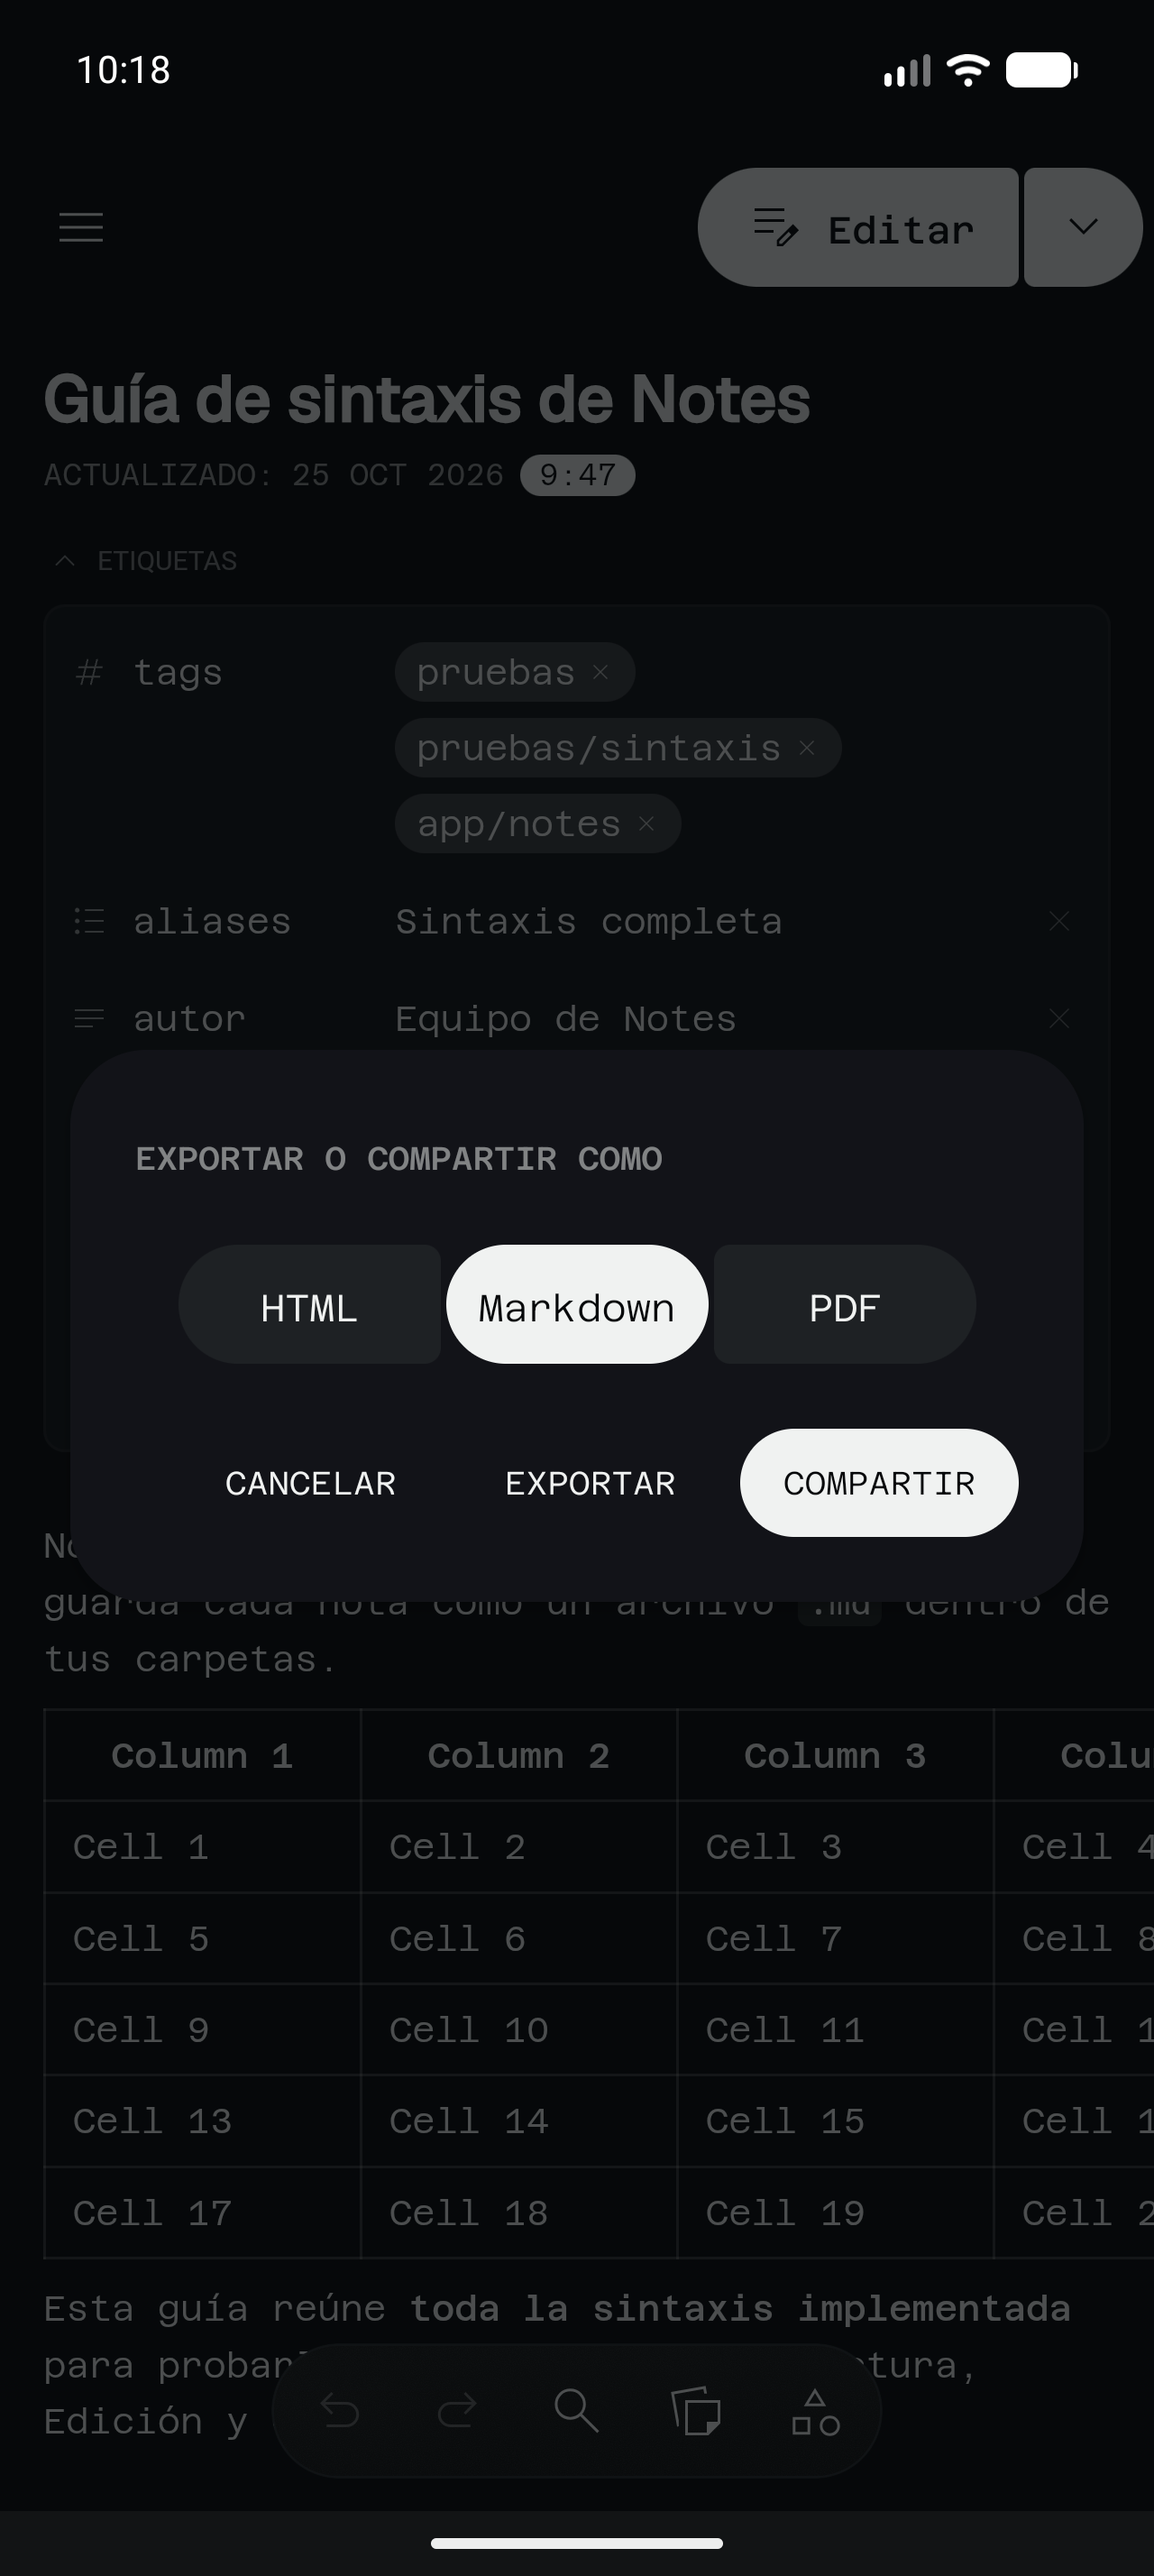
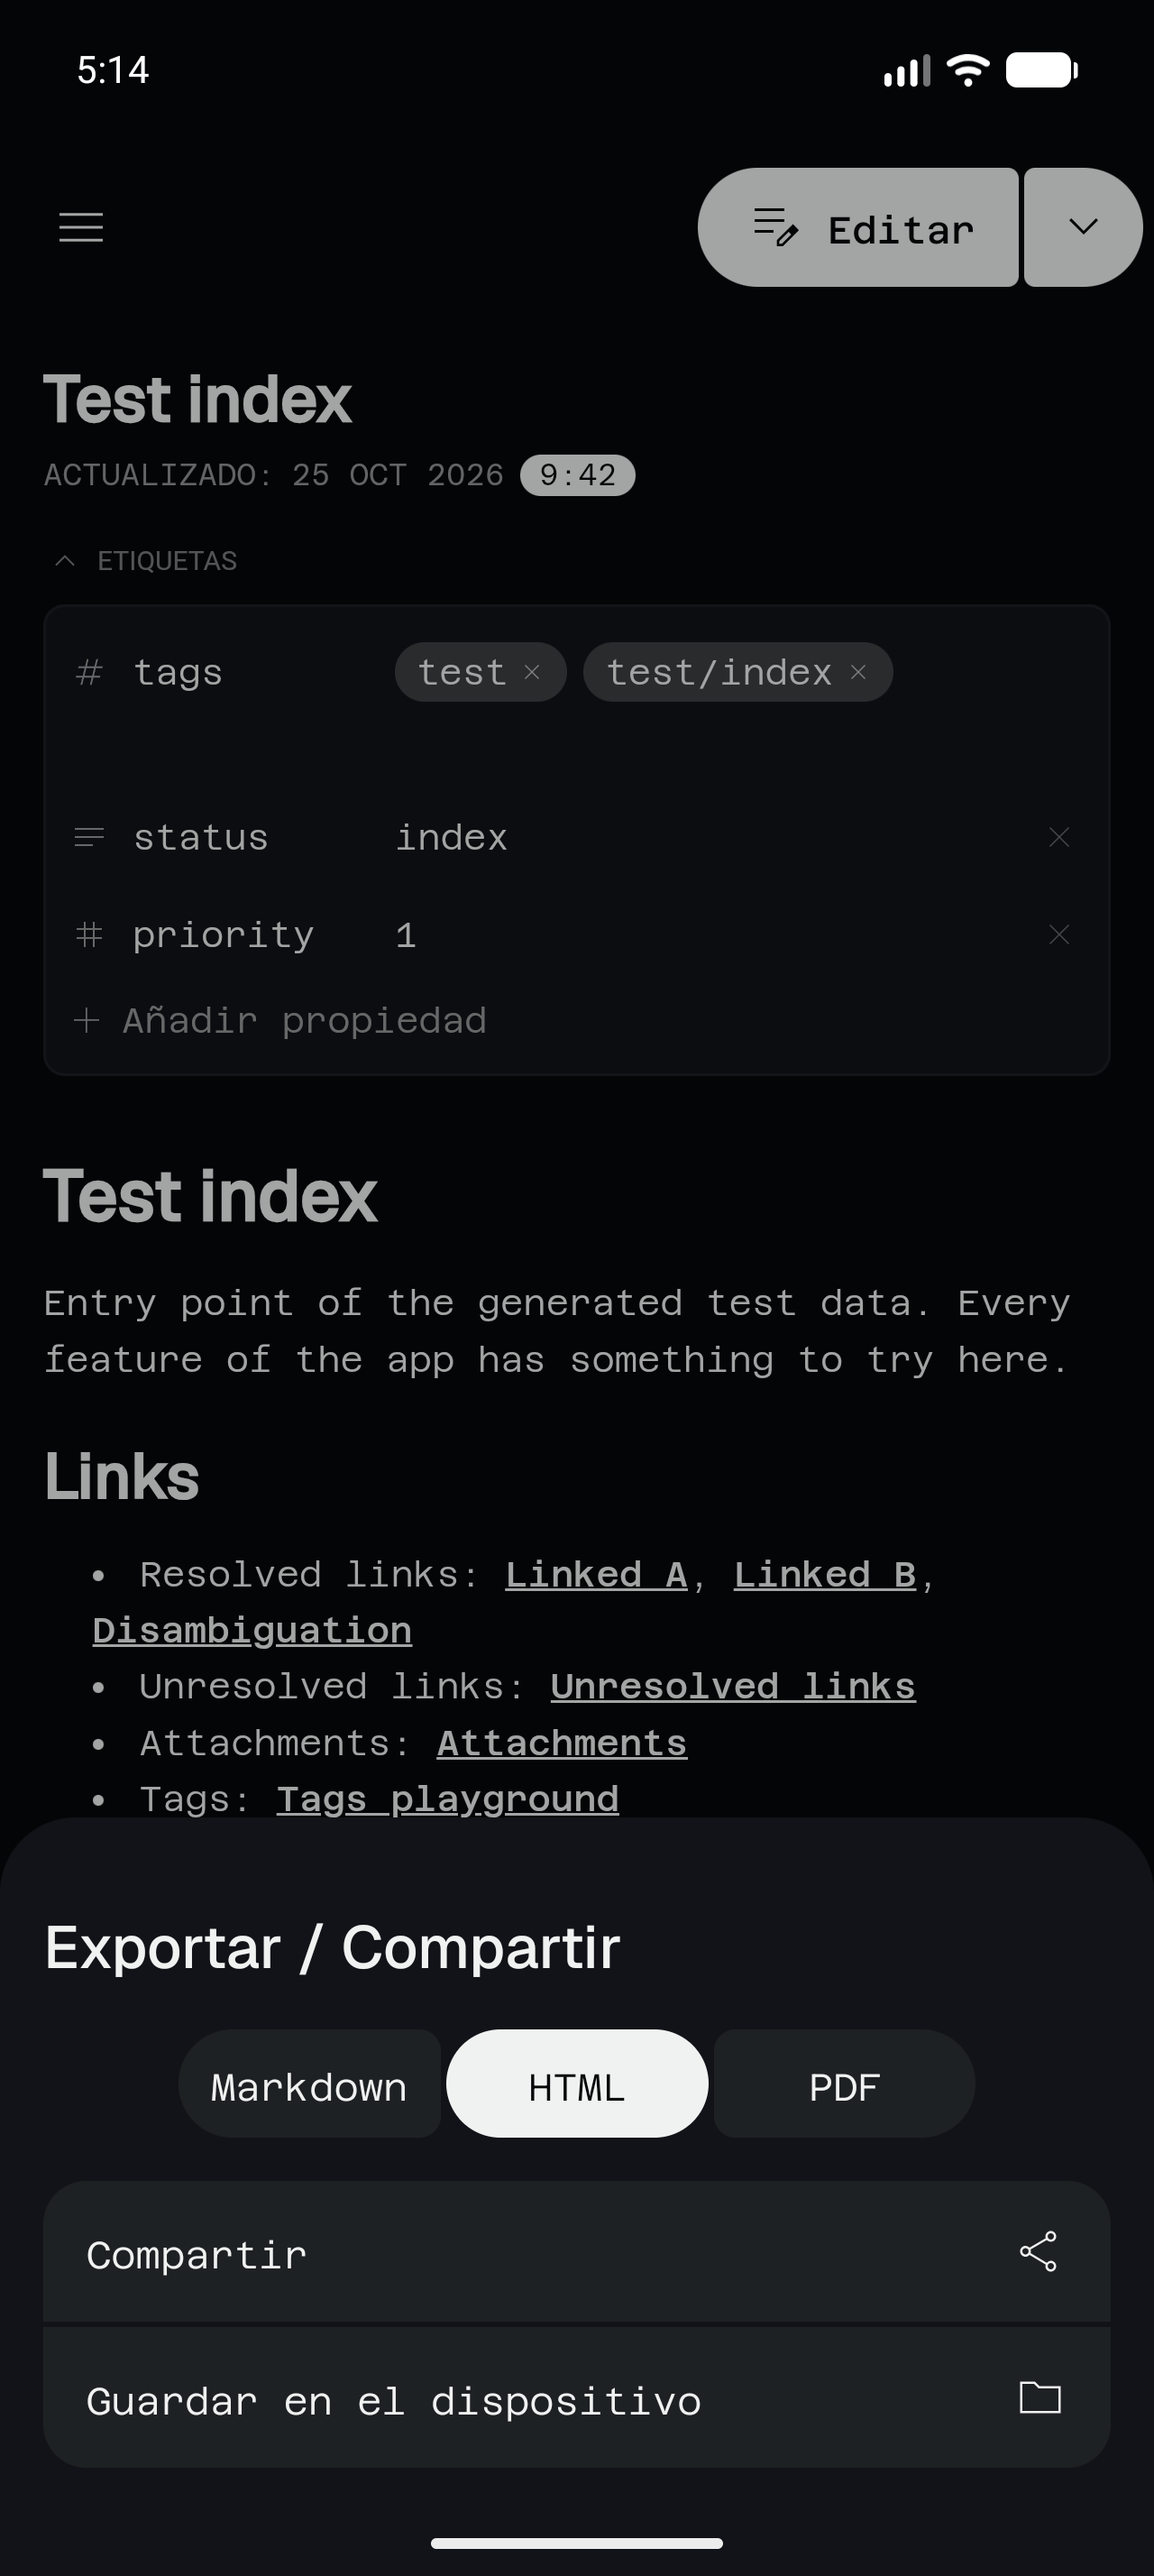
feat: stop remembering the export format and update the readme

diff --git a/src/screens/dialogs/export-sheet.js b/src/screens/dialogs/export-sheet.js
@@ -11,27 +11,19 @@ import { PositionGroup } from '@/components/position-group'
 import { showSnackbar } from '@/components/snackbar/snackbar-host'
 
 import { usePro } from '@/hooks/use-pro'
-import { useStorage } from '@/hooks/use-storage'
-import { useStorageEffect } from '@/hooks/use-storage-effect'
 
 import { Folder } from '@/icons/folder'
 import { Share } from '@/icons/share'
 
 import { EXPORT_FORMATS, PRO_EXPORT_FORMATS } from '@/constants/export'
-import { STORAGE_KEYS } from '@/constants/storage-keys'
 import { ICON_SIZE, SPACING } from '@/constants/theme'
 
 export const ExportSheet = memo(function ExportSheet({ sheet, onExport, onShare }) {
     const { t } = useTranslation()
     const { colors } = useTheme()
     const { pro } = usePro()
-    const { setItem } = useStorage()
 
     const [format, setFormat] = useState(EXPORT_FORMATS.MARKDOWN)
-
-    useStorageEffect(STORAGE_KEYS.EXPORT_FORMAT, (stored) => {
-        if (stored && (pro || !PRO_EXPORT_FORMATS.includes(stored))) setFormat(stored)
-    })
 
     const select = useCallback((value) => {
         if (!pro && PRO_EXPORT_FORMATS.includes(value)) {
@@ -40,8 +32,7 @@ export const ExportSheet = memo(function ExportSheet({ sheet, onExport, onShare 
         }
 
         setFormat(value)
-        setItem(STORAGE_KEYS.EXPORT_FORMAT, value)
-    }, [pro, setItem, t])
+    }, [pro, t])
 
     const run = useCallback((action) => {
         sheet.onClose()

diff --git a/src/constants/storage-keys.js b/src/constants/storage-keys.js
@@ -17,7 +17,6 @@ export const STORAGE_KEYS = {
     ALWAYS_UPDATE_WIKI_LINKS: 'always-update-wiki-links',
     LINK_FORMAT: 'link-format',
     HEADING_FONT: 'heading-font',
-    EXPORT_FORMAT: 'export-format',
     ATTACHMENT_LOCATION: 'attachment-location',
     ATTACHMENT_FOLDER: 'attachment-folder',
     SHOW_NOTE_PROPERTIES: 'show-note-properties',

diff --git a/README.md b/README.md
@@ -169,7 +169,7 @@ Simple notes that stay on your phone.
 
 <img align="right" width="220" alt="Export" src="docs/screenshots/export.png" />
 
-- Export or share as Markdown, HTML or PDF.
+- Pick Markdown, HTML or PDF, then share it or save it to your device.
 - Import the notes you already have.
 - Open text files from other apps.
 - Add images, audio, video and PDFs.
